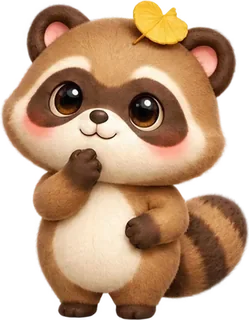
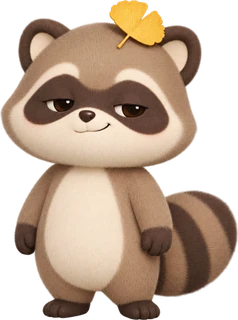
Use redesigned half-lidded raccoon as temporary mascot
Claude-Session: https://claude.ai/code/session_012kaPCcFWP3YyTfMh2gJRqq

diff --git a/docs/superpowers/specs/2026-10-26-dongguri-prototype-design.md b/docs/superpowers/specs/2026-10-26-dongguri-prototype-design.md
@@ -22,7 +22,7 @@
 
 | 항목 | 결정 |
 |---|---|
-| 캐릭터 | 돈구리 = 너구리(머리에 금빛 은행잎). 표정·자세 8컷(`assets/mascot/*.webp`)을 Higgsfield(GPT Image 2.5)로 생성. 바꿀 때는 이 그림 파일만 교체 |
+| 캐릭터 | 돈구리 = 너구리(머리에 금빛 은행잎). 표정·자세 8컷(`assets/mascot/*.webp`)을 Higgsfield(GPT Image 2.5)로 생성. 바꿀 때는 이 그림 파일만 교체. 2026-10-28: 반달 눈·한쪽 입꼬리 미소 사양으로 다시 그린 calm 한 컷을 임시로 8컷 모두에 사용(나머지 표정은 추후 생성) |
 | 상점 | 액세서리 4(은행잎·노리개·거울·갓) + 저축 소품 4(돼지 저금통·동전 지갑·목표 깃발·황금 계산기), `assets/items/*.webp` |
 | 보상 화폐 | 은행잎, 단위 "잎" |
 | 색 | 바탕 `#F2F4F7`, 카드 `#FFFFFF`, 글자 `#191F28`, 보조 `#6B7684`, 기본 파랑 `#2F6FED`, 개성 1 노란 주황 `#F6CA51`(위 글자 `#2A1A08`), 개성 2 청록 `#2BEED4`(글자용 진한 색 `#16776A`) |
